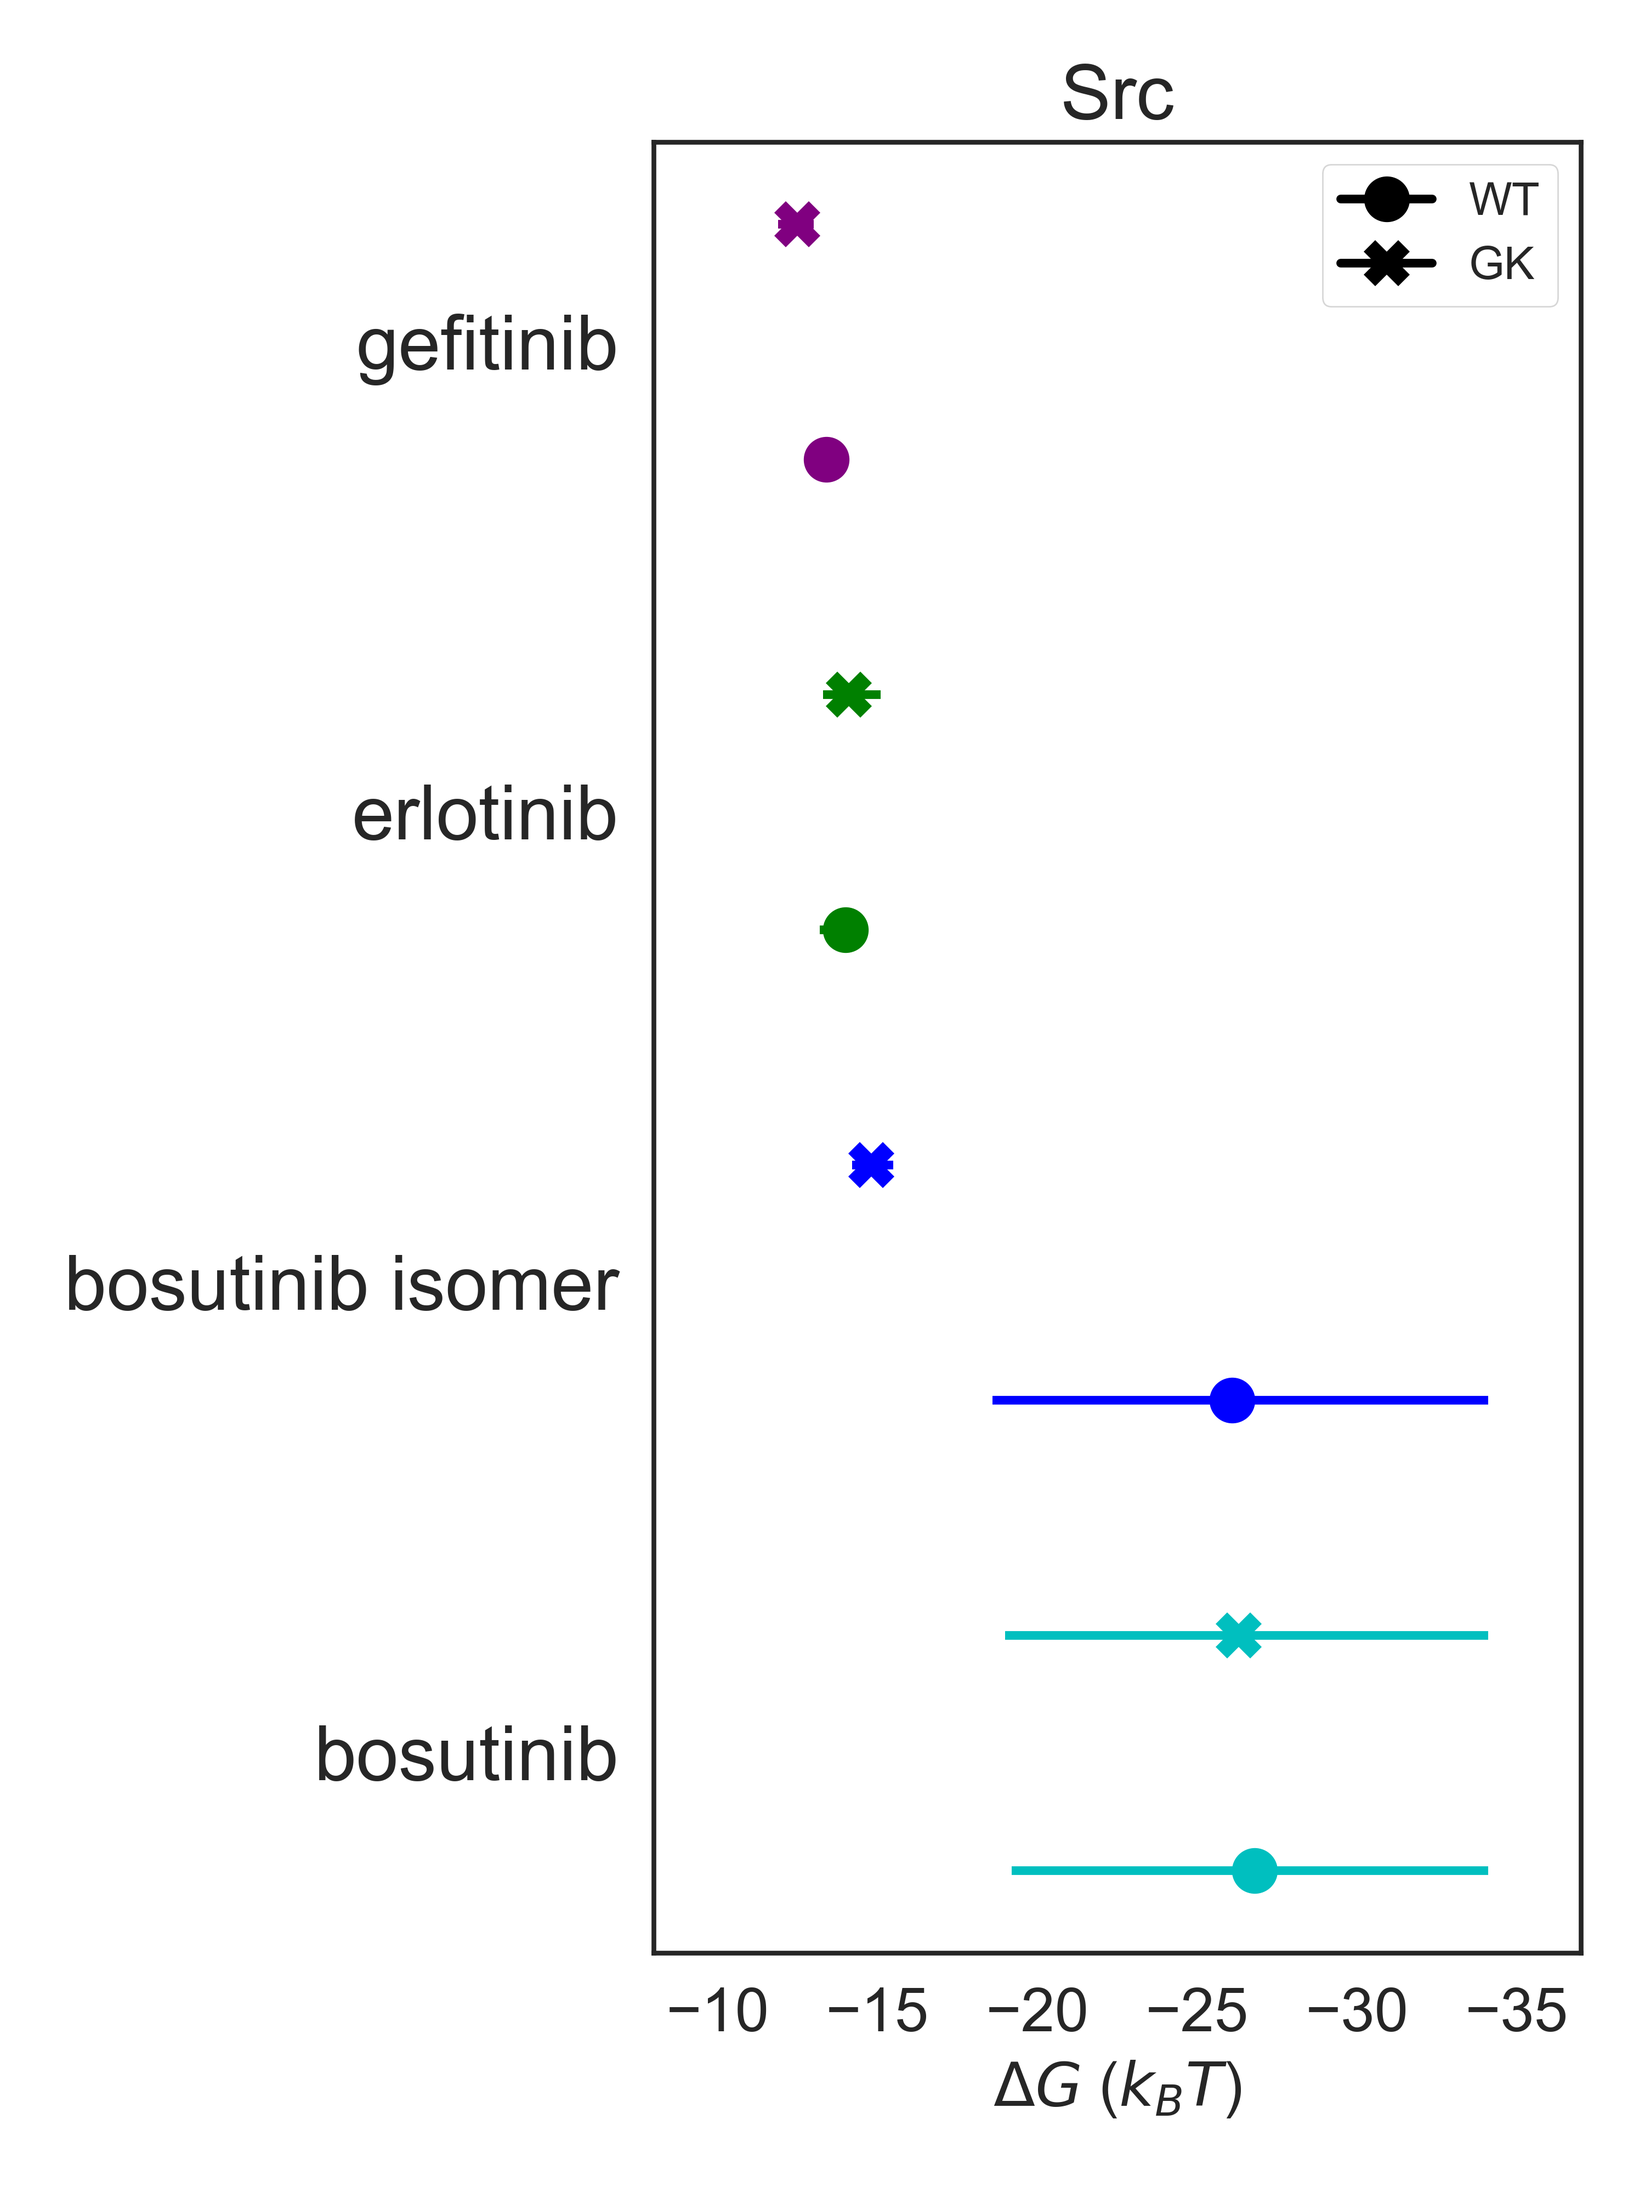
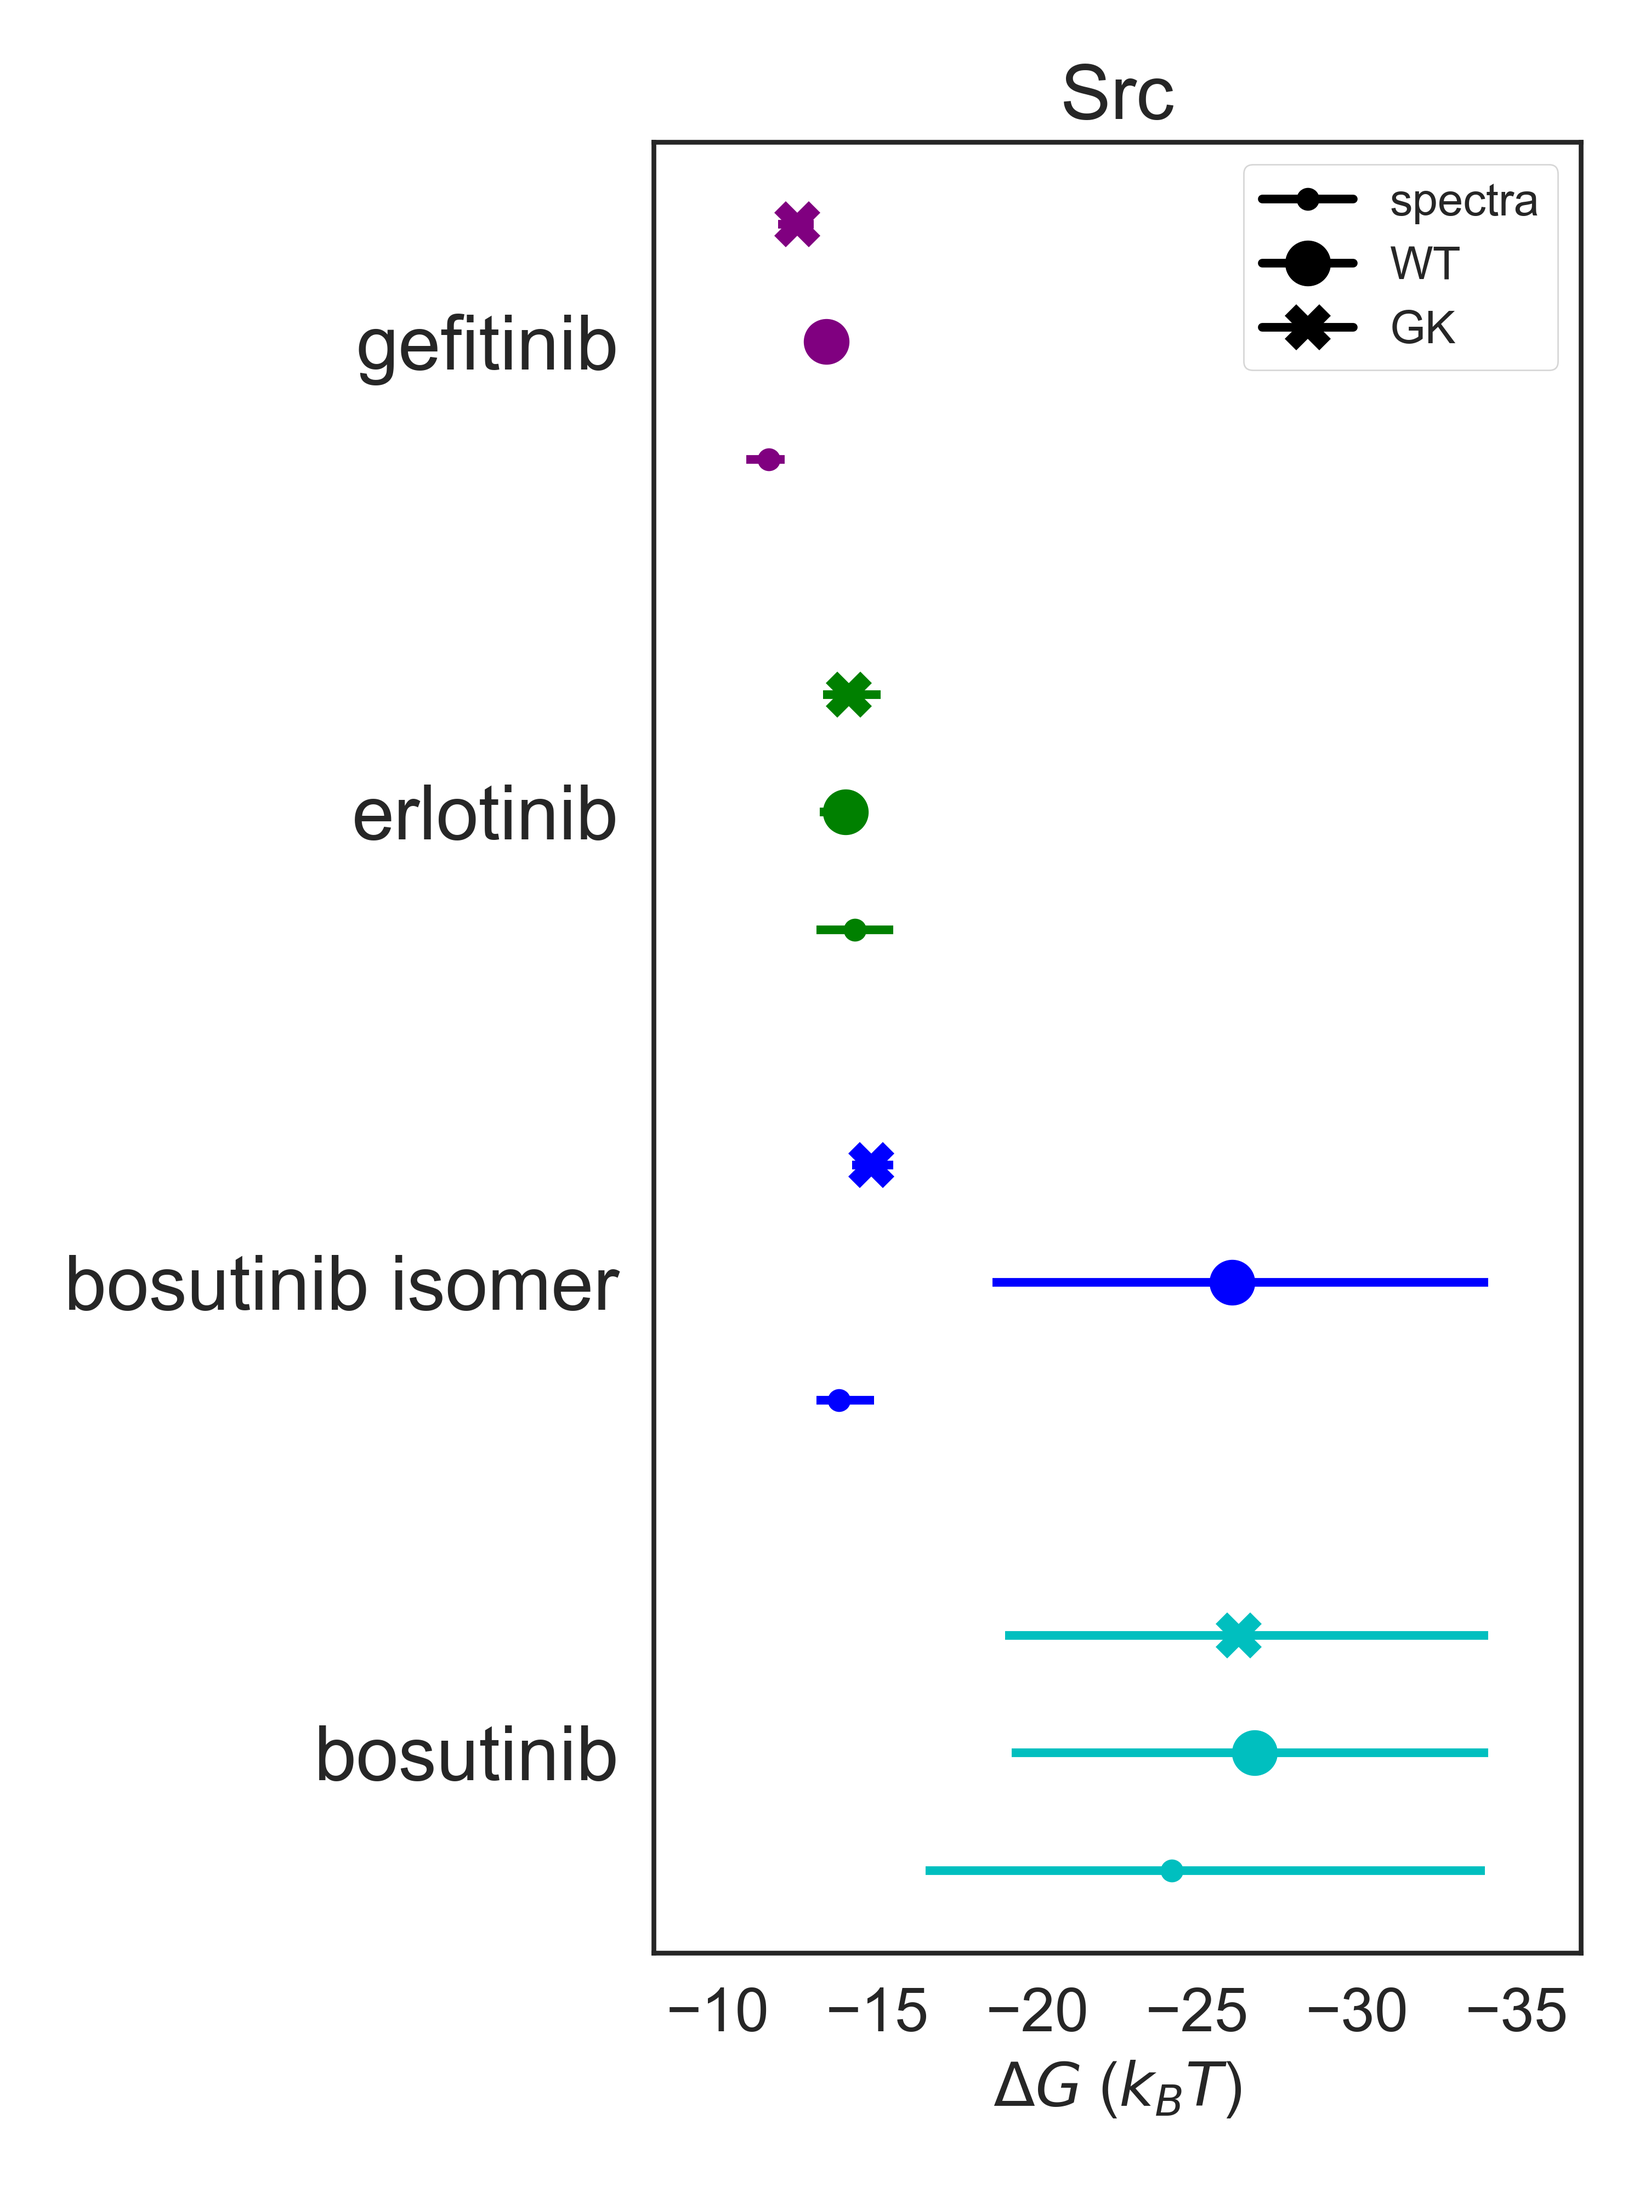
updated single wavelength figure with comparisons to spectra results

diff --git a/figures/Figure4/generate_Src_delG_compare.py b/figures/Figure4/generate_Src_delG_compare.py
@@ -23,6 +23,12 @@ GK_Erl_file = 'mwsw/Src_T338I-Erlotinib-EF-2019-10-04 21:00.json'
 Gef_file = 'mwsw/Src-Gefitinib-GH-2019-10-05 01:56.json'
 GK_Gef_file = 'mwsw/Src_T338I-Gefitinib-GH-2019-10-05 02:22.json'
 
+Bos_spectra_file = '../../analysis/bayes/corrected-concentrations-Perror15/Bos/Src-Bosutinib-AB-2019-10-07 11:37.json'
+Bsi_spectra_file = '../../analysis/bayes/corrected-concentrations-Perror15/Bsi/Src-Bosutinib Isomer-CD-2019-10-07 11:38.json'
+Erl_spectra_file = '../../analysis/bayes/corrected-concentrations-Perror15/Erl/Src-Erlotinib-EF-2019-10-07 11:40.json'
+Gef_spectra_file = '../../analysis/bayes/corrected-concentrations-Perror15/Gef/Src-Gefitinib-GH-2019-10-07 11:40.json'
+
+
 def json_parse(file):
     with open(file) as json_file:
         data = json.load(json_file)
@@ -47,17 +53,29 @@ GK_Erl = json_parse(GK_Erl_file)
 Gef = json_parse(Gef_file)
 GK_Gef = json_parse(GK_Gef_file)
 
+Bos_spectra = json_parse(Bos_spectra_file)
+Bsi_spectra = json_parse(Bsi_spectra_file)
+Erl_spectra = json_parse(Erl_spectra_file)
+Gef_spectra = json_parse(Gef_spectra_file)
+
 labels = ['bosutinib','bosutinib isomer','erlotinib','gefitinib']
 
 fig, ax = plt.subplots(figsize=(6,8))
 
-plt.errorbar(Bos[1],0.75,xerr=[[abs(Bos[1]-Bos[2])],[abs(Bos[1]-Bos[0])]], fmt='o',color='c',markersize=12)
+plt.errorbar(Bos_spectra[1],0.75,xerr=[[abs(Bos_spectra[1]-Bos_spectra[2])],[abs(Bos_spectra[1]-Bos_spectra[0])]], fmt='.',color='c',markersize=12)
+plt.errorbar(Bos[1],1,xerr=[[abs(Bos[1]-Bos[2])],[abs(Bos[1]-Bos[0])]], fmt='o',color='c',markersize=12)
 plt.errorbar(GK_Bos[1],1.25,xerr=[[abs(GK_Bos[1]-GK_Bos[2])],[abs(GK_Bos[1]-GK_Bos[0])]], fmt='X',color='c',markersize=12)
-plt.errorbar(Bsi[1],1.75,xerr=[[abs(Bsi[1]-Bsi[2])],[abs(Bsi[1]-Bsi[0])]], fmt='o',color='b',markersize=12)
+
+plt.errorbar(Bsi_spectra[1],1.75,xerr=[[abs(Bsi_spectra[1]-Bsi_spectra[2])],[abs(Bsi_spectra[1]-Bsi_spectra[0])]], fmt='.',color='b',markersize=12)
+plt.errorbar(Bsi[1],2,xerr=[[abs(Bsi[1]-Bsi[2])],[abs(Bsi[1]-Bsi[0])]], fmt='o',color='b',markersize=12)
 plt.errorbar(GK_Bsi[1],2.25,xerr=[[abs(GK_Bsi[1]-GK_Bsi[2])],[abs(GK_Bsi[1]-GK_Bsi[0])]], fmt='X',color='b',markersize=12)
-plt.errorbar(Erl[1],2.75,xerr=[[abs(Erl[1]-Erl[2])],[abs(Erl[1]-Erl[0])]], fmt='o',color='g',markersize=12)
+
+plt.errorbar(Erl_spectra[1],2.75,xerr=[[abs(Erl_spectra[1]-Erl_spectra[2])],[abs(Erl_spectra[1]-Erl_spectra[0])]], fmt='.',color='g',markersize=12)
+plt.errorbar(Erl[1],3,xerr=[[abs(Erl[1]-Erl[2])],[abs(Erl[1]-Erl[0])]], fmt='o',color='g',markersize=12)
 plt.errorbar(GK_Erl[1],3.25,xerr=[[abs(GK_Erl[1]-GK_Erl[2])],[abs(GK_Erl[1]-GK_Erl[0])]], fmt='X',color='g',markersize=12)
-plt.errorbar(Gef[1],3.75,xerr=[[abs(Gef[1]-Gef[2])],[abs(Gef[1]-Gef[0])]], fmt='o',color='purple',markersize=12)
+
+plt.errorbar(Gef_spectra[1],3.75,xerr=[[abs(Gef_spectra[1]-Gef_spectra[2])],[abs(Gef_spectra[1]-Gef_spectra[0])]], fmt='.',color='purple',markersize=12)
+plt.errorbar(Gef[1],4,xerr=[[abs(Gef[1]-Gef[2])],[abs(Gef[1]-Gef[0])]], fmt='o',color='purple',markersize=12)
 plt.errorbar(GK_Gef[1],4.25,xerr=[[abs(GK_Gef[1]-GK_Gef[2])],[abs(GK_Gef[1]-GK_Gef[0])]], fmt='X',color='purple',markersize=12)
 
 plt.xlim([-8,-37])
@@ -68,11 +86,13 @@ plt.yticks(fontsize=20)
 
 plt.title('Src',fontsize=20)
 
+Spectra = mlines.Line2D([0], [0], marker='.', color='k', label='spectra',
+                          markerfacecolor='k', markersize=12)
 WT = mlines.Line2D([0], [0], marker='o', color='k', label='WT',
                           markerfacecolor='k', markersize=12)
 GK = mlines.Line2D([0], [0], marker='X', color='k', label='GK',
                           markerfacecolor='k', markersize=12)
-plt.legend(handles=[WT,GK],fontsize=12,loc=0,frameon=True)
+plt.legend(handles=[Spectra,WT,GK],fontsize=12,loc=0,frameon=True)
 
 plt.tight_layout()
 

diff --git a/figures/Figure4/generate_Abl_delG_compare.py b/figures/Figure4/generate_Abl_delG_compare.py
@@ -22,6 +22,11 @@ GK_Erl_file = 'mwsw/Abl_T334I-Erlotinib-EF-2019-10-04 14:39.json'
 Gef_file = 'mwsw/Abl-Gefitinib-GH-2019-10-04 23:24.json'
 GK_Gef_file = 'mwsw/Abl_T334I-Gefitinib-GH-2019-10-04 17:28.json'
 
+Bos_spectra_file = '../../analysis/bayes/corrected-concentrations-Perror15/Bos/Abl-Bosutinib-AB-2019-10-07 18:12.json'
+Bsi_spectra_file = '../../analysis/bayes/corrected-concentrations-Perror15/Bsi/Abl-Bosutinib Isomer-CD-2019-10-07 22:23.json'
+Erl_spectra_file = '../../analysis/bayes/corrected-concentrations-Perror15/Erl/Abl-Erlotinib-EF-2019-10-07 19:16.json'
+Gef_spectra_file = '../../analysis/bayes/corrected-concentrations-Perror15/Gef/Abl-Gefitinib-GH-2019-10-07 18:56.json'
+
 def json_parse(file):
     with open(file) as json_file:
         data = json.load(json_file)
@@ -46,17 +51,29 @@ GK_Erl = json_parse(GK_Erl_file)
 Gef = json_parse(Gef_file)
 GK_Gef = json_parse(GK_Gef_file)
 
+Bos_spectra = json_parse(Bos_spectra_file)
+Bsi_spectra = json_parse(Bsi_spectra_file)
+Erl_spectra = json_parse(Erl_spectra_file)
+Gef_spectra = json_parse(Gef_spectra_file)
+
 labels = ['bosutinib','bosutinib isomer','erlotinib','gefitinib']
 
 fig, ax = plt.subplots(figsize=(6,8))
 
-plt.errorbar(Bos[1],0.75,xerr=[[abs(Bos[1]-Bos[2])],[abs(Bos[1]-Bos[0])]], fmt='o',color='c',markersize=12)
+plt.errorbar(Bos_spectra[1],0.75,xerr=[[abs(Bos_spectra[1]-Bos_spectra[2])],[abs(Bos_spectra[1]-Bos_spectra[0])]], fmt='.',color='c',markersize=12)
+plt.errorbar(Bos[1],1,xerr=[[abs(Bos[1]-Bos[2])],[abs(Bos[1]-Bos[0])]], fmt='o',color='c',markersize=12)
 plt.errorbar(GK_Bos[1],1.25,xerr=[[abs(GK_Bos[1]-GK_Bos[2])],[abs(GK_Bos[1]-GK_Bos[0])]], fmt='X',color='c',markersize=12)
-plt.errorbar(Bsi[1],1.75,xerr=[[abs(Bsi[1]-Bsi[2])],[abs(Bsi[1]-Bsi[0])]], fmt='o',color='b',markersize=12)
+
+plt.errorbar(Bsi_spectra[1],1.75,xerr=[[abs(Bsi_spectra[1]-Bsi_spectra[2])],[abs(Bsi_spectra[1]-Bsi_spectra[0])]], fmt='.',color='b',markersize=12)
+plt.errorbar(Bsi[1],2,xerr=[[abs(Bsi[1]-Bsi[2])],[abs(Bsi[1]-Bsi[0])]], fmt='o',color='b',markersize=12)
 plt.errorbar(GK_Bsi[1],2.25,xerr=[[abs(GK_Bsi[1]-GK_Bsi[2])],[abs(GK_Bsi[1]-GK_Bsi[0])]], fmt='X',color='b',markersize=12)
-plt.errorbar(Erl[1],2.75,xerr=[[abs(Erl[1]-Erl[2])],[abs(Erl[1]-Erl[0])]], fmt='o',color='g',markersize=12)
+
+plt.errorbar(Erl_spectra[1],2.75,xerr=[[abs(Erl_spectra[1]-Erl_spectra[2])],[abs(Erl_spectra[1]-Erl_spectra[0])]], fmt='.',color='g',markersize=12)
+plt.errorbar(Erl[1],3,xerr=[[abs(Erl[1]-Erl[2])],[abs(Erl[1]-Erl[0])]], fmt='o',color='g',markersize=12)
 plt.errorbar(GK_Erl[1],3.25,xerr=[[abs(GK_Erl[1]-GK_Erl[2])],[abs(GK_Erl[1]-GK_Erl[0])]], fmt='X',color='g',markersize=12)
-plt.errorbar(Gef[1],3.75,xerr=[[abs(Gef[1]-Gef[2])],[abs(Gef[1]-Gef[0])]], fmt='o',color='purple',markersize=12)
+
+plt.errorbar(Gef_spectra[1],3.75,xerr=[[abs(Gef_spectra[1]-Gef_spectra[2])],[abs(Gef_spectra[1]-Gef_spectra[0])]], fmt='.',color='purple',markersize=12)
+plt.errorbar(Gef[1],4,xerr=[[abs(Gef[1]-Gef[2])],[abs(Gef[1]-Gef[0])]], fmt='o',color='purple',markersize=12)
 plt.errorbar(GK_Gef[1],4.25,xerr=[[abs(GK_Gef[1]-GK_Gef[2])],[abs(GK_Gef[1]-GK_Gef[0])]], fmt='X',color='purple',markersize=12)
 
 plt.xlim([-8,-37])
@@ -67,11 +84,13 @@ plt.yticks(fontsize=20)
 
 plt.title('Abl',fontsize=20)
 
+Spectra = mlines.Line2D([0], [0], marker='.', color='k', label='spectra',
+                          markerfacecolor='k', markersize=12)
 WT = mlines.Line2D([0], [0], marker='o', color='k', label='WT',
                           markerfacecolor='k', markersize=12)
 GK = mlines.Line2D([0], [0], marker='X', color='k', label='GK',
                           markerfacecolor='k', markersize=12)
-plt.legend(handles=[WT,GK],fontsize=12,loc=0,frameon=True)
+plt.legend(handles=[Spectra,WT,GK],fontsize=12,loc=0,frameon=True)
 
 plt.tight_layout()
 

diff --git a/figures/Figure4/generate_p38_delG_compare.py b/figures/Figure4/generate_p38_delG_compare.py
@@ -18,6 +18,11 @@ Bsi_file = 'mwsw/p38-Bosutinib Isomer-CD-2019-10-04 12:13.json'
 Erl_file = 'mwsw/p38-Erlotinib-EF-2019-10-04 15:18.json'
 Gef_file = 'mwsw/p38-Gefitinib-GH-2019-10-04 18:51.json'
 
+Bos_spectra_file = '../../analysis/bayes/corrected-concentrations-Perror15/Bos/p38-Bosutinib-AB-2019-10-07 14:52.json'
+Bsi_spectra_file = '../../analysis/bayes/corrected-concentrations-Perror15/Bsi/p38-Bosutinib Isomer-CD-2019-10-07 16:50.json'
+Erl_spectra_file = '../../analysis/bayes/corrected-concentrations-Perror15/Erl/p38-Erlotinib-EF-2019-10-07 15:50.json'
+Gef_spectra_file = '../../analysis/bayes/corrected-concentrations-Perror15/Gef/p38-Gefitinib-GH-2019-10-07 16:01.json'
+
 def json_parse(file):
     with open(file) as json_file:
         data = json.load(json_file)
@@ -38,15 +43,26 @@ Bsi = json_parse(Bsi_file)
 Erl = json_parse(Erl_file)
 Gef = json_parse(Gef_file)
 
-labels = ['bosutinib','bosutinib isomer','erlotinib','gefitinib']
+Bos_spectra = json_parse(Bos_spectra_file)
+Bsi_spectra = json_parse(Bsi_spectra_file)
+Erl_spectra = json_parse(Erl_spectra_file)
+Gef_spectra = json_parse(Gef_spectra_file)
 
+labels = ['bosutinib','bosutinib isomer','erlotinib','gefitinib']
 
 fig, ax = plt.subplots(figsize=(6,4))
 
-plt.errorbar(Bos[1],1,xerr=[[abs(Bos[1]-Bos[2])],[abs(Bos[1]-Bos[0])]], fmt='o',color='c',markersize=12)
-plt.errorbar(Bsi[1],2,xerr=[[abs(Bsi[1]-Bsi[2])],[abs(Bsi[1]-Bsi[0])]], fmt='o',color='b',markersize=12)
-plt.errorbar(Erl[1],3,xerr=[[abs(Erl[1]-Erl[2])],[abs(Erl[1]-Erl[0])]], fmt='o',color='g',markersize=12)
-plt.errorbar(Gef[1],4,xerr=[[abs(Gef[1]-Gef[2])],[abs(Gef[1]-Gef[0])]], fmt='o',color='purple',markersize=12)
+plt.errorbar(Bos_spectra[1],0.75,xerr=[[abs(Bos_spectra[1]-Bos_spectra[2])],[abs(Bos_spectra[1]-Bos_spectra[0])]], fmt='.',color='c',markersize=12)
+plt.errorbar(Bos[1],1.25,xerr=[[abs(Bos[1]-Bos[2])],[abs(Bos[1]-Bos[0])]], fmt='o',color='c',markersize=12)
+
+plt.errorbar(Bsi_spectra[1],1.75,xerr=[[abs(Bsi_spectra[1]-Bsi_spectra[2])],[abs(Bsi_spectra[1]-Bsi_spectra[0])]], fmt='.',color='b',markersize=12)
+plt.errorbar(Bsi[1],2.25,xerr=[[abs(Bsi[1]-Bsi[2])],[abs(Bsi[1]-Bsi[0])]], fmt='o',color='b',markersize=12)
+
+plt.errorbar(Erl_spectra[1],2.75,xerr=[[abs(Erl_spectra[1]-Erl_spectra[2])],[abs(Erl_spectra[1]-Erl_spectra[0])]], fmt='.',color='g',markersize=12)
+plt.errorbar(Erl[1],3.25,xerr=[[abs(Erl[1]-Erl[2])],[abs(Erl[1]-Erl[0])]], fmt='o',color='g',markersize=12)
+
+plt.errorbar(Gef_spectra[1],3.75,xerr=[[abs(Gef_spectra[1]-Gef_spectra[2])],[abs(Gef_spectra[1]-Gef_spectra[0])]], fmt='.',color='purple',markersize=12)
+plt.errorbar(Gef[1],4.25,xerr=[[abs(Gef[1]-Gef[2])],[abs(Gef[1]-Gef[0])]], fmt='o',color='purple',markersize=12)
 
 plt.xlim([-8,-37])
 plt.yticks([1,2,3,4],labels)
@@ -55,6 +71,12 @@ plt.xticks(fontsize=16)
 plt.yticks(fontsize=20)
 
 plt.title('p38',fontsize=20)
+
+Spectra = mlines.Line2D([0], [0], marker='.', color='k', label='spectra',
+                          markerfacecolor='k', markersize=12)
+WT = mlines.Line2D([0], [0], marker='o', color='k', label='WT',
+                          markerfacecolor='k', markersize=12)
+plt.legend(handles=[Spectra,WT],fontsize=12,loc=0,frameon=True)
 
 plt.tight_layout()
 
